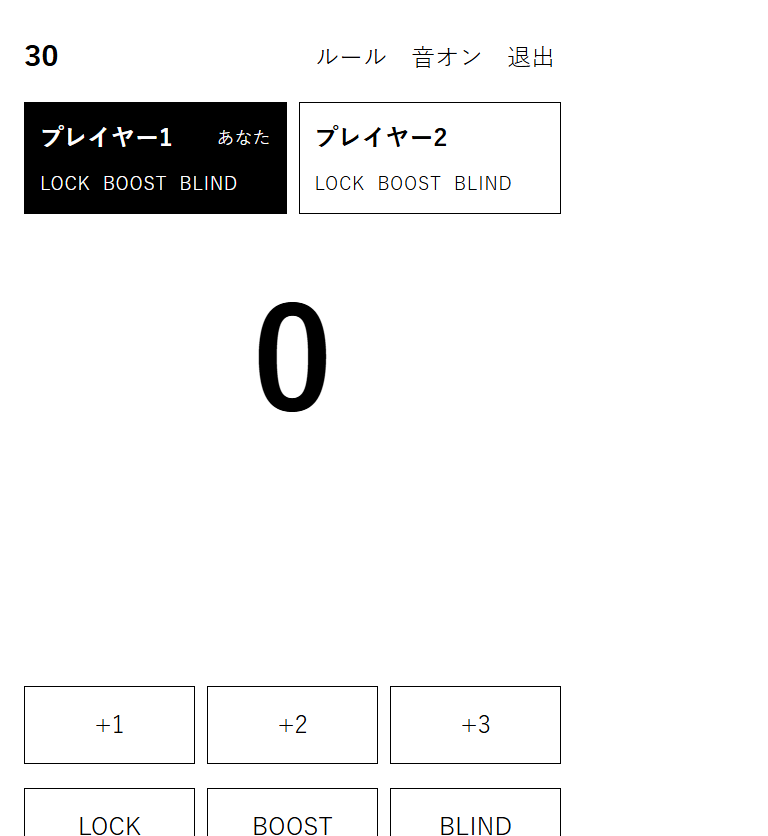
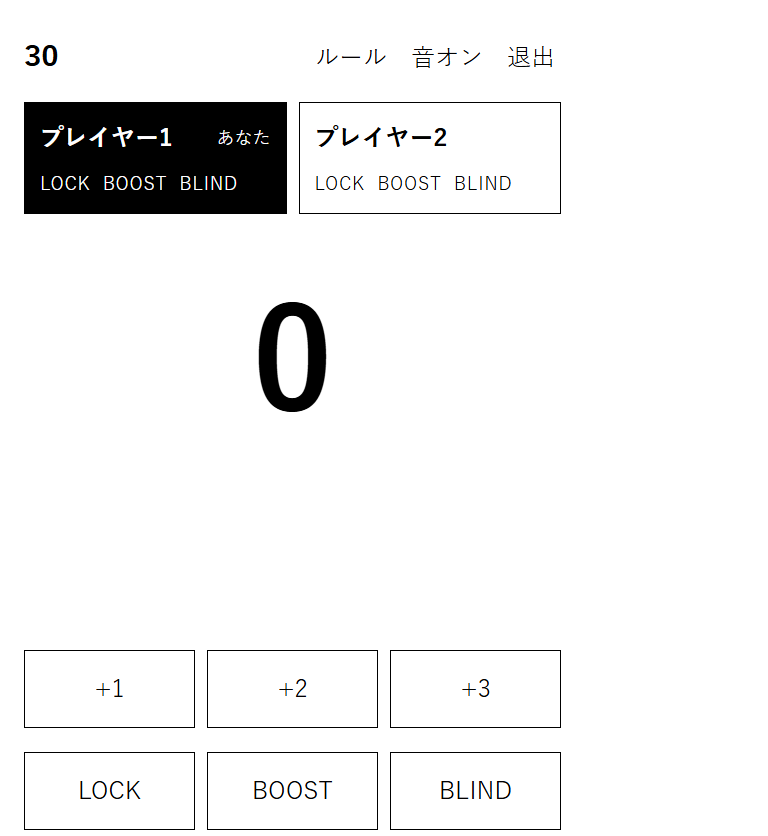
READMEを概要とルール、遊び方に戻し、対戦画面の画像を差し替える。

diff --git a/README.md b/README.md
@@ -2,19 +2,9 @@
 
 2人で遊ぶ、数字を進める対戦ゲームです。0から交互に数を足していき、30以上にした人が負けます。運の要素はなく、各プレイヤーが1回ずつ持つ3つの能力で、相手の手を崩します。
 
-対戦の正はサーバーが持ち、ブラウザは受け取った局面を表示するだけです。BLIND中は、相手の端末へ新しい数字を送りません。勝敗と能力の規則は `shared/rules.js` にまとめ、クライアントとサーバーの両方から使い、`npm test` で確認しています。
-
-同じ端末で交代するローカル対戦と、4文字のコードで部屋を立てるオンライン対戦があります。画面は白と黒だけです。対局中に見るものは、今の数字と、残っている能力と、次の手だけです。
+同じ端末で交代するローカル対戦と、4文字のコードで部屋を立てるオンライン対戦があります。
 
 ![対戦画面](docs/play.png)
-
-## 工夫した点
-
-- **サーバーが局面の正である。** オンラインの手はサーバーで判定し、不正な手は拒否します。ブラウザは送られた局面を描くだけです。
-- **BLINDは表示だけでなく通信でも隠す。** 能力の選択が終わるまで、相手には手番前の数字だけを送ります。隠しているあいだのメッセージに、新しい数字は含まれません。使った本人の画面には数字が残ります。
-- **規則は1か所。** `shared/rules.js` をブラウザとサーバーで共有しています。ローカル対戦もオンライン対戦も同じ判定です。
-
-`npm test` は、規則そのものと、オンライン通信を確かめています。オンラインのテストでは、BLIND中の通信に数字が漏れないことと、LOCK中の +3 がサーバーに拒否されることを見ています。
 
 ## 遊び方
 
